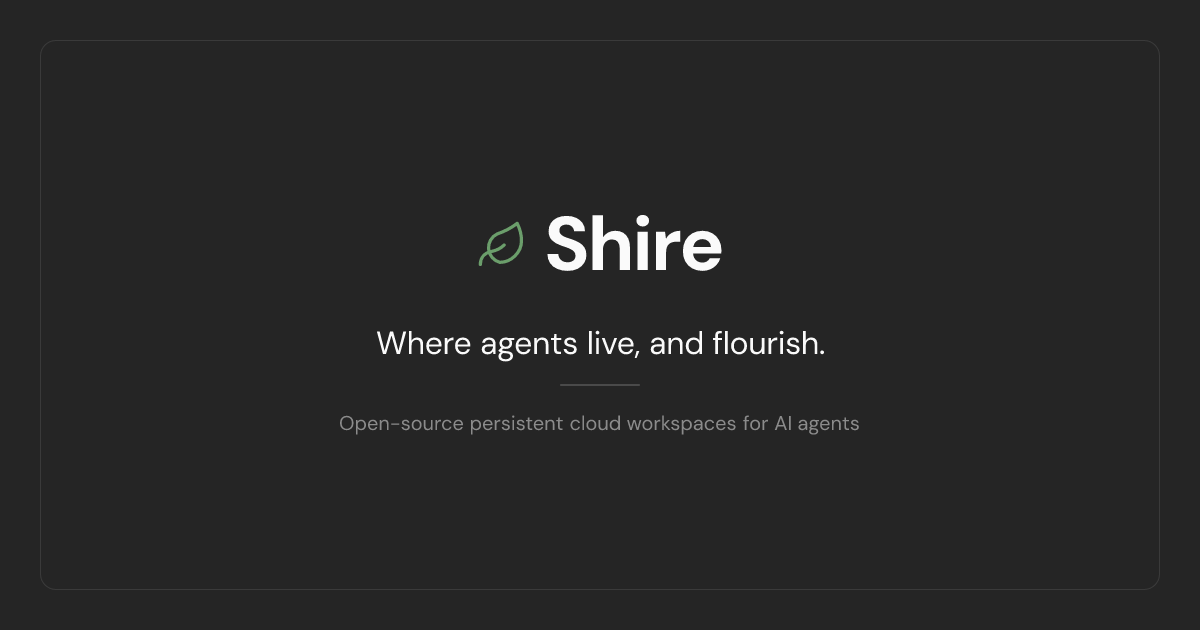
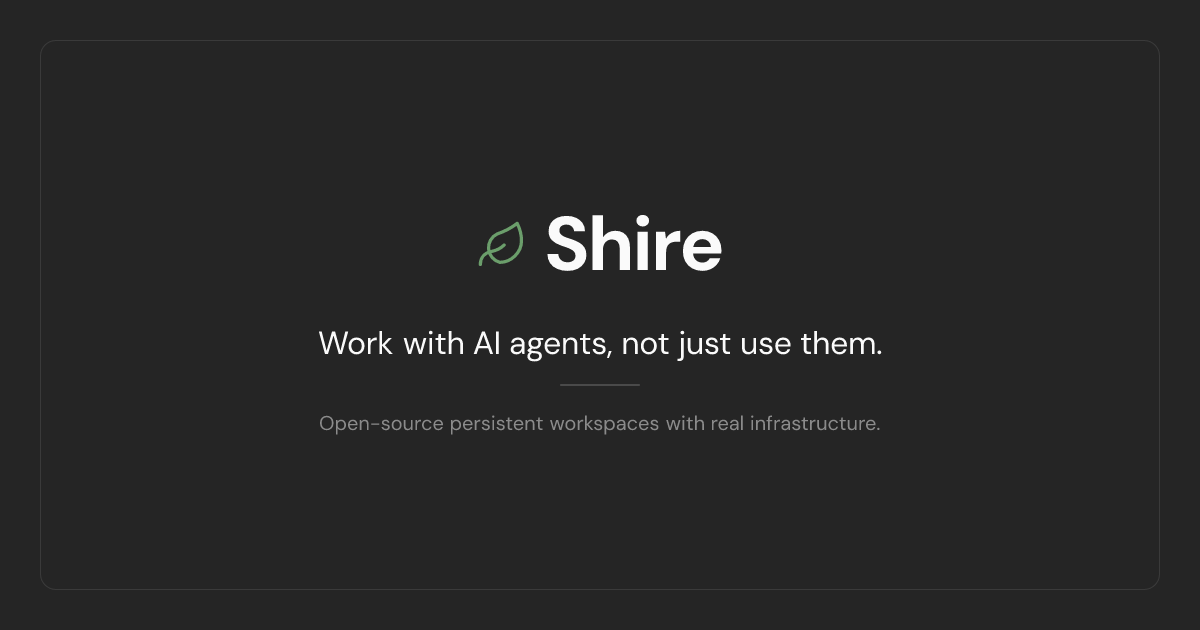
Update OG image with new messaging

Changed region(s): [[0.2467, 0.5127, 0.74, 0.573], [0.2775, 0.6635, 0.74, 0.6937]]

diff --git a/app/layout.tsx b/app/layout.tsx
@@ -55,7 +55,7 @@ export const metadata: Metadata = {
         url: "/og-image.png",
         width: 1200,
         height: 630,
-        alt: "Shire — Where agents live, and flourish. Open-source persistent cloud workspaces for AI agents.",
+        alt: "Shire — Work with AI agents, not just use them. Open-source persistent workspaces with real infrastructure.",
       },
     ],
   },